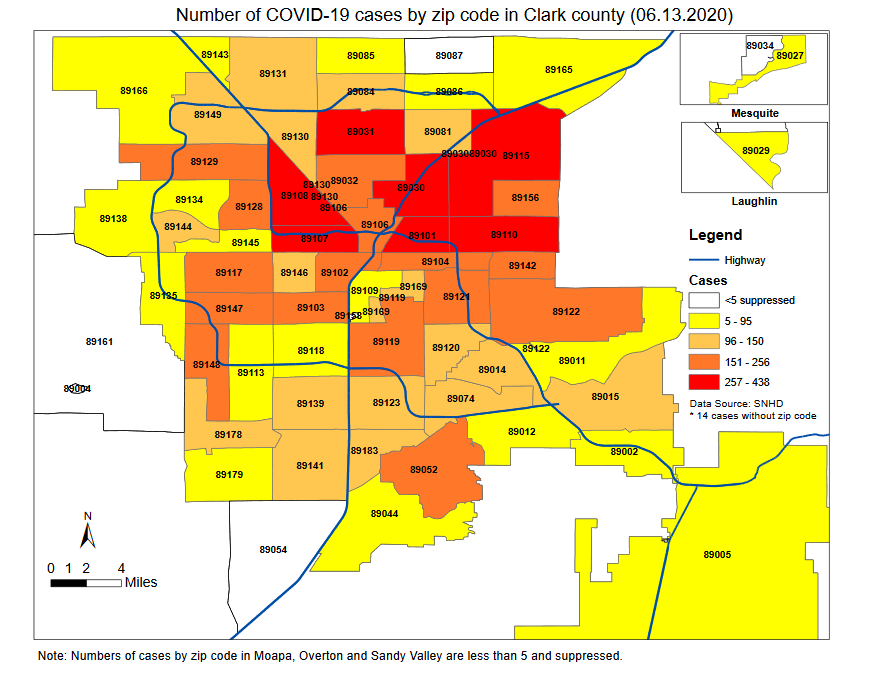
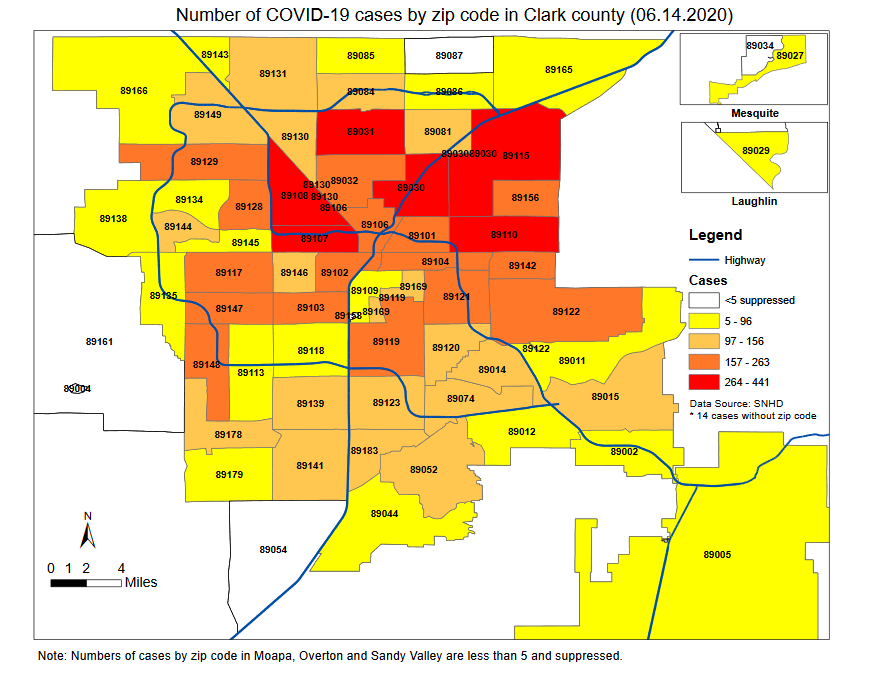
Day 103

diff --git a/src/pages/clarkcounty.js b/src/pages/clarkcounty.js
@@ -118,6 +118,7 @@ class ClarkPage extends Component {
 				'6/11/20',
 				'6/12/20',
 				'6/13/20',
+				'6/14/20',
 			],
 			datasets: [
 				{
@@ -226,6 +227,7 @@ class ClarkPage extends Component {
 						8314,
 						8556,
 						8735,
+						8815,
 					],
 				},
 			],
@@ -335,6 +337,7 @@ class ClarkPage extends Component {
 				'6/11/20',
 				'6/12/20',
 				'6/13/20',
+				'6/14/20',
 			],
 			datasets: [
 				{
@@ -443,6 +446,7 @@ class ClarkPage extends Component {
 						214,
 						242,
 						179,
+						80,
 					],
 				},
 			],
@@ -532,6 +536,7 @@ class ClarkPage extends Component {
 				'6/11/20',
 				'6/12/20',
 				'6/13/20',
+				'6/14/20',
 			],
 			datasets: [
 				{
@@ -620,6 +625,7 @@ class ClarkPage extends Component {
 						1717,
 						1734,
 						1734,
+						1738,
 					],
 				},
 			],
@@ -708,6 +714,7 @@ class ClarkPage extends Component {
 				'6/11/20',
 				'6/12/20',
 				'6/13/20',
+				'6/14/20',
 			],
 			datasets: [
 				{
@@ -796,6 +803,7 @@ class ClarkPage extends Component {
 						14,
 						17,
 						0,
+						4,
 					],
 				},
 			],
@@ -905,6 +913,7 @@ class ClarkPage extends Component {
 				'6/11/20',
 				'6/12/20',
 				'6/13/20',
+				'6/14/20',
 			],
 			datasets: [
 				{
@@ -1012,6 +1021,7 @@ class ClarkPage extends Component {
 						377,
 						377,
 						378,
+						379,
 					],
 					backgroundColor: 'maroon',
 				},
@@ -1110,6 +1120,7 @@ class ClarkPage extends Component {
 				'6/11/20',
 				'6/12/20',
 				'6/13/20',
+				'6/14/20',
 			],
 			datasets: [
 				{
@@ -1205,6 +1216,7 @@ class ClarkPage extends Component {
 						8,
 						2,
 						0,
+						1,
 						1,
 					],
 				},
@@ -1315,6 +1327,7 @@ class ClarkPage extends Component {
 				'6/11/20',
 				'6/12/20',
 				'6/13/20',
+				'6/14/20',
 			],
 			datasets: [
 				{
@@ -1425,6 +1438,7 @@ class ClarkPage extends Component {
 						7.2,
 						7.2,
 						7.3,
+						7.5,
 					],
 				},
 				{
@@ -1500,6 +1514,7 @@ class ClarkPage extends Component {
 						null,
 						null,
 						null,
+						6.9,
 						6.9,
 						6.9,
 						6.9,
@@ -1648,6 +1663,7 @@ class ClarkPage extends Component {
 						4.8,
 						4.8,
 						4.8,
+						4.8,
 					],
 				},
 			],
@@ -1658,7 +1674,7 @@ class ClarkPage extends Component {
 			datasets: [
 				{
 					label: 'Age of Cases',
-					data: [134, 425, 770, 3820, 2055, 1529],
+					data: [135, 432, 781, 3860, 2066, 1539],
 					backgroundColor: [
 						'rgb(54, 162, 235)', //blue
 						'rgb(255, 99, 132)', //salmon
@@ -1676,7 +1692,7 @@ class ClarkPage extends Component {
 			datasets: [
 				{
 					label: 'Sex',
-					data: [4488, 4148, 99],
+					data: [4534, 4181, 100],
 					backgroundColor: [
 						'rgb(255, 99, 132)',
 						'rgb(54, 162, 235)',
@@ -1718,7 +1734,7 @@ class ClarkPage extends Component {
 											</div>
 										</div>
 										<div className='card-value pt-4'>
-											<h1>8,735</h1>
+											<h1>8,815</h1>
 										</div>
 									</div>
 								</div>
@@ -1730,7 +1746,7 @@ class ClarkPage extends Component {
 											</div>
 										</div>
 										<div className='card-value pt-4'>
-											<h1>1,734</h1>
+											<h1>1,738</h1>
 										</div>
 									</div>
 								</div>
@@ -1742,7 +1758,7 @@ class ClarkPage extends Component {
 											</div>
 										</div>
 										<div className='card-value pt-4'>
-											<h1>6,571</h1>
+											<h1>6,626</h1>
 										</div>
 									</div>
 								</div>
@@ -1754,7 +1770,7 @@ class ClarkPage extends Component {
 											</div>
 										</div>
 										<div className='card-value pt-4'>
-											<h1>378</h1>
+											<h1>379</h1>
 										</div>
 									</div>
 								</div>
@@ -1847,6 +1863,8 @@ class ClarkPage extends Component {
 											<div className='card-heading'>
 												<div className='is-dark-text-light letter-spacing text-small'>
 													Clark County % of Positive Tests
+													<br />
+													7-Day Moving Average
 												</div>
 											</div>
 											<div className='card-value pt-4'>

diff --git a/src/pages/nevada.js b/src/pages/nevada.js
@@ -113,6 +113,7 @@ class NevadaPage extends Component {
 				'6/11/20',
 				'6/12/20',
 				'6/13/20',
+				'6/14/20',
 			],
 			datasets: [
 				{
@@ -220,6 +221,7 @@ class NevadaPage extends Component {
 						10676,
 						10946,
 						11173,
+						11279,
 					],
 					fill: false, // Don't fill area under the line
 					backgroundColor: '#933A16', // Line color
@@ -330,6 +332,7 @@ class NevadaPage extends Component {
 				'6/11/20',
 				'6/12/20',
 				'6/13/20',
+				'6/14/20',
 			],
 			datasets: [
 				{
@@ -438,6 +441,7 @@ class NevadaPage extends Component {
 						277,
 						270,
 						227,
+						106,
 					],
 					fill: false, // Don't fill area under the line
 					backgroundColor: '#933A16', // Bar color
@@ -548,6 +552,7 @@ class NevadaPage extends Component {
 				'6/11/20',
 				'6/12/20',
 				'6/13/20',
+				'6/14/20',
 			],
 			datasets: [
 				{
@@ -654,7 +659,8 @@ class NevadaPage extends Component {
 						463,
 						464,
 						464,
-						464,
+						465,
+						465,
 					],
 					backgroundColor: 'maroon',
 				},
@@ -753,6 +759,7 @@ class NevadaPage extends Component {
 				'6/11/20',
 				'6/12/20',
 				'6/13/20',
+				'6/14/20',
 			],
 			datasets: [
 				{
@@ -848,6 +855,7 @@ class NevadaPage extends Component {
 						1,
 						1,
 						0,
+						1,
 						0,
 					],
 				},
@@ -938,6 +946,7 @@ class NevadaPage extends Component {
 				'6/11/20',
 				'6/12/20',
 				'6/13/20',
+				'6/14/20',
 			],
 			datasets: [
 				{
@@ -1028,6 +1037,7 @@ class NevadaPage extends Component {
 						5.4,
 						5.3,
 						5.3,
+						5.2,
 					],
 				},
 				{
@@ -1083,6 +1093,7 @@ class NevadaPage extends Component {
 						null,
 						null,
 						null,
+						10.4,
 						10.4,
 						10.4,
 						10.4,
@@ -1210,6 +1221,7 @@ class NevadaPage extends Component {
 						5.6,
 						5.6,
 						5.6,
+						5.6,
 					],
 				},
 			],
@@ -1245,7 +1257,7 @@ class NevadaPage extends Component {
 										</div>
 									</div>
 									<div className='card-value pt-4'>
-										<h1>210,503</h1>
+										<h1>216,464</h1>
 									</div>
 								</div>
 							</div>
@@ -1257,7 +1269,7 @@ class NevadaPage extends Component {
 										</div>
 									</div>
 									<div className='card-value pt-4'>
-										<h1>199,438</h1>
+										<h1>205,155</h1>
 									</div>
 								</div>
 							</div>
@@ -1269,7 +1281,7 @@ class NevadaPage extends Component {
 										</div>
 									</div>
 									<div className='card-value pt-4'>
-										<h1>11,173</h1>
+										<h1>11,279</h1>
 									</div>
 								</div>
 							</div>
@@ -1281,7 +1293,7 @@ class NevadaPage extends Component {
 										</div>
 									</div>
 									<div className='card-value pt-4'>
-										<h1>464</h1>
+										<h1>465</h1>
 									</div>
 								</div>
 							</div>
